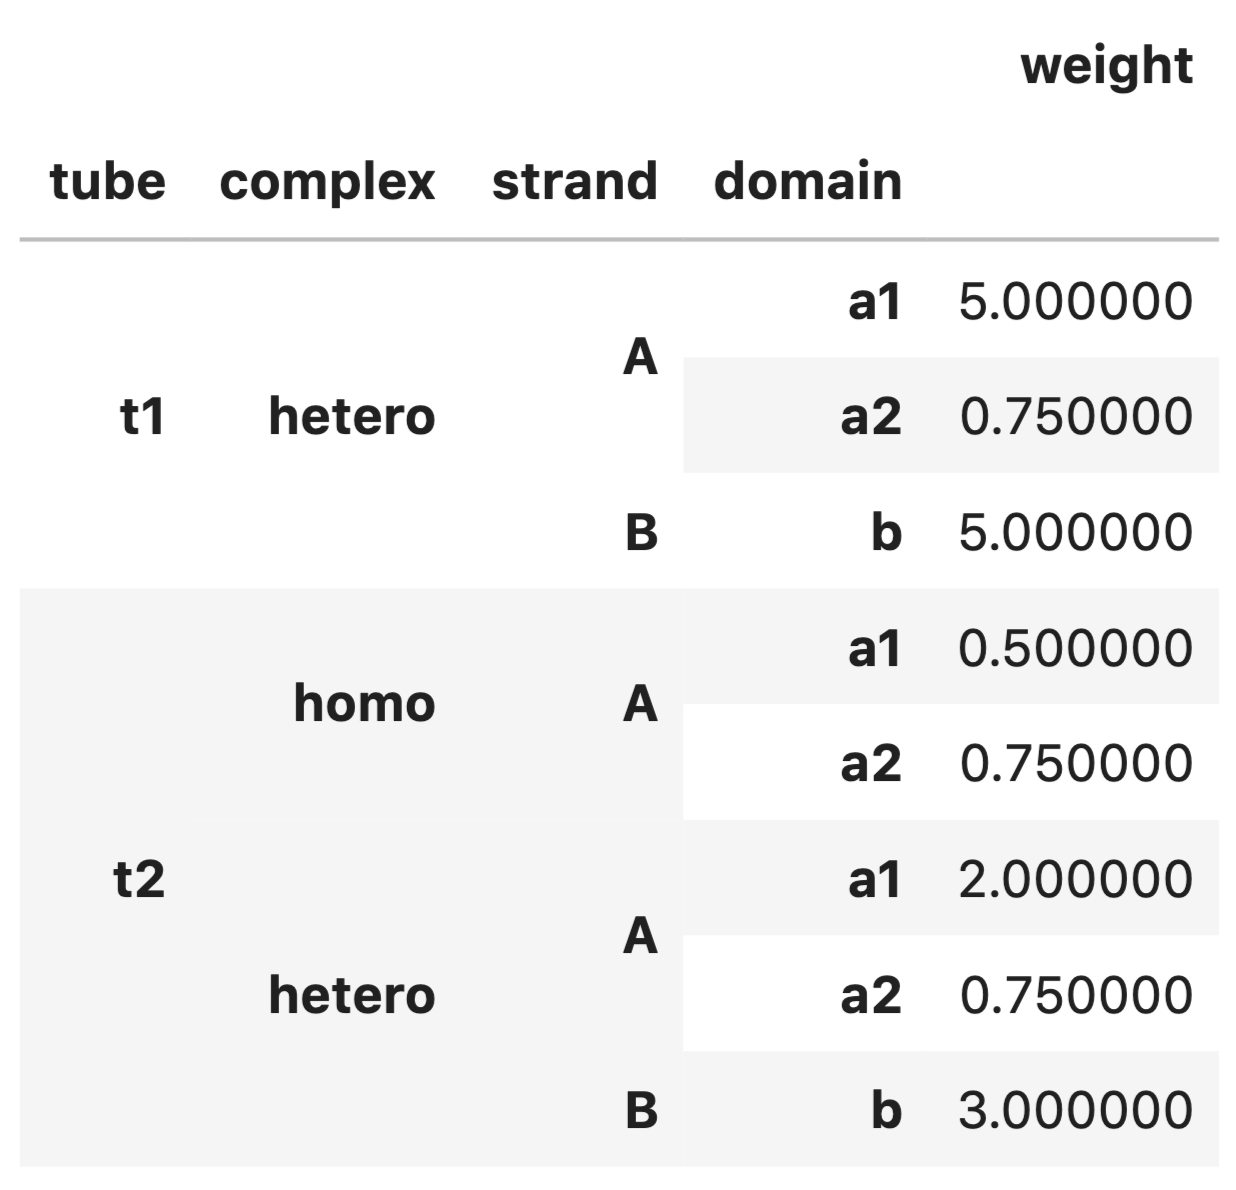
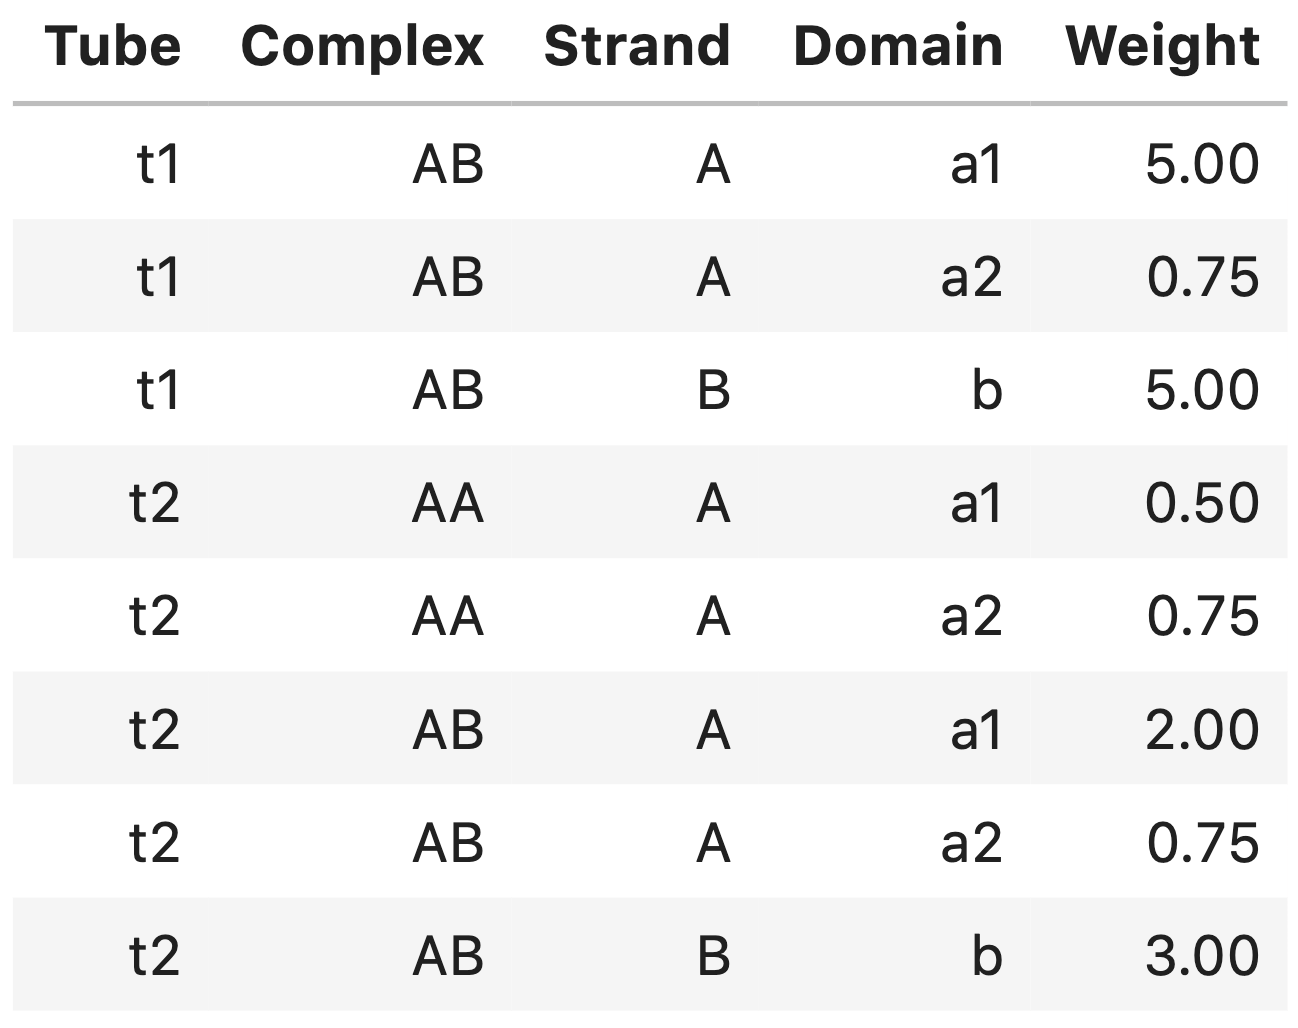
Edit examples so they all work with current syntax

diff --git a/sources/design.md b/sources/design.md
@@ -211,7 +211,7 @@ my_current_results[0]  # display results table for first design trial
 If only final results are of interest, use the `final_results()` method:
 
 ```python
-my_final_results = my_jobs.current_results()
+my_final_results = my_jobs.final_results()
 ```
 
 which returns a list with an entry for each trial that is either a `DesignResult` object (if a final result is available) or `None` (otherwise).
@@ -309,16 +309,18 @@ A `complex_design` object supports the `launch()`, `run()`, and `evaluate()` met
 
 ## Specify hard constraints
 
-[Hard constraints](definitions.md#hard-constraints) for a design job are specified as a list, for example: 
+[Hard constraints](definitions.md#hard-constraints) for a design job are specified as a list, for example:
 
 ```python
 # specify domains
-a = 
-b = 
-c = 
-d = 
-e = Domain('S2', name='e')
-f = Domain('S2', name='f')
+a = Domain('N4', name='a')
+b = Domain('N4', name='b')
+c = Domain('N5', name='c')
+d = Domain('N5', name='d')
+e = Domain('N5', name='e')
+f = Domain('N5', name='f')
+
+A = TargetStrand([a, b, c], name='A')
 
 # source sequence for window constraint
 gfp = 'auggugagcaagggcgaggagcuguucaccgggguggugcccauccuggucgagcuggacggcgacguaaacggccacaaguucagcguguccggcgagggcgagggcgaugccaccuacggcaagcugacccugaaguucaucugcaccaccggcaagcugcccgugcccuggcccacccucgugaccacccugaccuacggcgugcagugcuucagccgcuaccccgaccacaugaagcagcacgacuucuucaaguccgccaugcccgaaggcuacguccaggagcgcaccaucuucuucaaggacgacggcaacuacaag'
@@ -327,20 +329,20 @@ gfp = 'auggugagcaagggcgaggagcuguucaccgggguggugcccauccuggucgagcuggacggcgacguaaacg
 my_hard_constraints = [
     Match([a], [b]),
     Match([a, b, f, f], [d, a, d, a]),
-    Complementarity([a, b, f, a, a, b], [c, d, e], allow_wobble=True),
-    Similarity(c, 'S10', limits=[0.45, 0.55]), # GC content
-    Library([a], catalog = ['CTAC', 'TAAT']),
-    Window([a, ~b], source = gfp),
-    Pattern(['A5', 'C5', 'G5', 'U5'], where=[A, b]),
+    Complementarity([a, b, f, a, a, b], [c, d, e, c, c], wobble_mutations=True),
+    Similarity([c], 'S5', limits=[0.2, 0.8]), # GC content
+    Library([a], catalog=[['CTAC', 'TAAT']]),
+    Window([a, ~b], source=gfp),
+    Pattern(['A5', 'C5', 'G5', 'U5'], where=A),
     Pattern(['A4', 'C4', 'G4', 'U4', 'M6', 'K6', 'W6', 'S6', 'R6', 'Y6']),
     Diversity(word=4, diversity=2),
     Diversity(word=6, diversity=3),
-    Diversity(word=10, diversity=4, where=[a, B])
+    Diversity(word=10, diversity=4, where=[a, b])
 ]
 
 #two ways to add another constraint to the constraint set
-my_hard_constraints += [Complementarity([e],[f], allow_wobble=True)]
-my_hard_constraints.append(Complementarity([e],[f], allow_wobble=True)) 
+my_hard_constraints += [Complementarity([e], [f], wobble_mutations=True)]
+my_hard_constraints.append(Complementarity([e], [f], wobble_mutations=True))
 ```
 
 See below for information about how to specify each type of hard constraint. Note that the specification of a domain (examples above) represents implicit specification of a sequence constraint using [degenerate nucleotide codes](definitions.md#degenerate-nucleotide-codes).
@@ -349,7 +351,7 @@ See below for information about how to specify each type of hard constraint. Not
 
 ### Match
 
-A [match constraint](definitions.md#hard-constraints) forces equal-length concatenations of one or more domains to be identical as follows: 
+A [match constraint](definitions.md#hard-constraints) forces equal-length concatenations of one or more domains to be identical as follows:
 
 ```python
 a = Domain('N10', name='a')
@@ -366,16 +368,16 @@ match2 = Match([a, b], [d, d, e])
 
 ### Complementarity
 
-A [complementarity constraint](definitions.md#hard-constraints) forces a concatenation of one list of domains to be the reverse complement of an equal-length  concatenation of another list of domains: 
+A [complementarity constraint](definitions.md#hard-constraints) forces a concatenation of one list of domains to be the reverse complement of an equal-length  concatenation of another list of domains:
 
 ```python
 comp1 = Complementarity([a, b], [c, d, e])
 ```
 
 !!! Note
-    Nucleotides that are base-paired in the target structure of an on-target complex are automatically assigned to satisfy a complementarity constraint. 
+    Nucleotides that are base-paired in the target structure of an on-target complex are automatically assigned to satisfy a complementarity constraint.
 
-By default, complementary sequences are required to have Watson-Crick base-pairing (A$\cdot$U or C$\cdot$G for RNA, A$\cdot$T or C$\cdot$G for DNA). To permit wobble mutations for RNA (G$\cdot$U) globally throughout a design, use the `wobble_mutations` [job option](design.md#job-options). Alternatively, wobble mutations can be allowed for individual complementarity constraints (keyword `wobble_mutations`, default: `False`): 
+By default, complementary sequences are required to have Watson-Crick base-pairing (A$\cdot$U or C$\cdot$G for RNA, A$\cdot$T or C$\cdot$G for DNA). To permit wobble mutations for RNA (G$\cdot$U) globally throughout a design, use the `wobble_mutations` [job option](design.md#job-options). Alternatively, wobble mutations can be allowed for individual complementarity constraints (keyword `wobble_mutations`, default: `False`):
 
 ```python
 comp2 = Complementarity([a, b], [c, d, e], wobble_mutations=True)
@@ -386,16 +388,16 @@ It is also possible to force base pairs to be wobble pairs:
 ```python
 f = Domain('S2', name='f')
 g = Domain('S2', name='g')
-comp3 = Complementarity([f],[g], wobble_mutations=True)
+comp3 = Complementarity([f], [g], wobble_mutations=True)
 ```
 
 ---
 
 ### Similarity
 
-A [similarity constraint](definitions.md#hard-constraints) forces a concatentation of domains or a single strand to match a reference sequence of the same length to within a specified fractional range. at a number of positions that falls in a specified range. A `Similarity` constraint is specified as: 
+A [similarity constraint](definitions.md#hard-constraints) forces a concatentation of domains or a single strand to match a reference sequence of the same length to within a specified fractional range. at a number of positions that falls in a specified range. A `Similarity` constraint is specified as:
 
-- a list of domains or a strand 
+- a list of domains or a strand
 - a reference sequence of the same length as the concatenated domains or the strand
 - a fractional range, $[l, u]$, where $0 \leq l < u \leq 1$
 
@@ -404,30 +406,30 @@ A [similarity constraint](definitions.md#hard-constraints) forces a concatentati
 ```python
 a = Domain('N10', name='a')
 b = Domain('N20', name='b')
-C = TargetStrand([a b a], name='Strand C')
+C = TargetStrand([a, b, a], name='Strand C')
 
 # similarity constraint for a concatenation of domains
-sim1 = Similarity([a ~a b], 'S5K5', limits=[0.25, 0.75]) 
+sim1 = Similarity([a, ~a, b], 'S5K35', limits=[0.25, 0.75])
 
 # similarity constraint for a strand
-sim2 = Similarity(C, 'S5K5', limits=[0.25, 0.75]) # for a strand
+sim2 = Similarity(C.domains, 'S30K10', limits=[0.25, 0.75]) # for a strand
 
 # use similarity constraint to enforce 45-55% GC content
-sim3 = Similarity([a b], 'S30', limits=[0.45, 0.55])
+sim3 = Similarity([a, b], 'S30', limits=[0.45, 0.55])
 ```
 
 
 !!! Note
-    A similarity constraint can be used to constrain sequence composition (e.g., 45-55% GC content as in the example above). 
+    A similarity constraint can be used to constrain sequence composition (e.g., 45-55% GC content as in the example above).
 
 
 ---
 
 ### Window
 
-A [window constraint](definitions.md#hard-constraints) forces a concatenation of domains to have a sequence that is a subsequence of a source sequence. More generally, a window can be drawn from any of multiple source sequences. A `Window` constraint is specified in two steps: 
+A [window constraint](definitions.md#hard-constraints) forces a concatenation of domains to have a sequence that is a subsequence of a source sequence. More generally, a window can be drawn from any of multiple source sequences. A `Window` constraint is specified in two steps:
 
-- First, define one or more source sequences as strings. 
+- First, define one or more source sequences as strings.
 - Second, specify a list of domains for concatenation and a list of sources from which the window should be selected.
 
 ```python
@@ -451,12 +453,12 @@ window2 = Window([~c, e], [gfp, rfp])
 
 ### Library
 
-A [library constraint](definitions.md#hard-constraints) forces a concatenated list of domains to have sequences drawn from a concatenated list of libraries. Each library contains a set of alternative sequences of equal length. A `Library` constraint is specified in two steps: 
+A [library constraint](definitions.md#hard-constraints) forces a concatenated list of domains to have sequences drawn from a concatenated list of libraries. Each library contains a set of alternative sequences of equal length. A `Library` constraint is specified in two steps:
 
-- First, define one or more libraries of alternative sequences of uniform length. 
-- Second, specify a list of domains for concatentation and a list of libraries for concatenation. 
+- First, define one or more libraries of alternative sequences of uniform length.
+- Second, specify a list of domains for concatentation and a list of libraries for concatenation.
 
-The sum of the length of the domains must equal the sum of the length of the libraries (where we define the length of a library to be the length of any of its elements). 
+The sum of the length of the domains must equal the sum of the length of the libraries (where we define the length of a library to be the length of any of its elements).
 
 ```python
 a = Domain('N6', name='a')
@@ -500,10 +502,10 @@ lib2 = Library([b, c], [aaI, aaM, aaC, aaG])
 
 ### Pattern Prevention
 
-A [pattern prevention constraint](definitions.md#hard-constraints) prevents a list of patterns from appearing globally or in a list of domains and/or strands. A `Pattern` constraint is specified as: 
+A [pattern prevention constraint](definitions.md#hard-constraints) prevents a list of patterns from appearing globally or in a list of domains and/or strands. A `Pattern` constraint is specified as:
 
 - a list of patterns to be prevented
-- optionally a list of domains and/or strands (keyword `where`) where the patterns should be prevented 
+- optionally a list of domains and/or strands (keyword `where`) where the patterns should be prevented
 - if the scope is unspecified (absence of keyword `where`), the constraint is global
 
 ```python
@@ -511,15 +513,17 @@ a = Domain('N12', name='a')
 b = Domain('N12', name='b')
 A = TargetStrand([a, ~a], name='A')
 B = TargetStrand([b, ~b], name='B')
+C = TargetComplex([A, B, A], name='C')
+D = TargetComplex([A, A], name='D')
 
 # pattern prevention for a domain a and domain b
 pattern1 = Pattern(['A4', 'U4'], where=[a, b])
 
 # pattern prevention for strand B
-pattern2 = Pattern(['A4', 'U4'], where=[B])
+pattern2 = Pattern(['A4', 'U4'], where=B)
 
 # preventing the same patterns for strand A and domain b
-pattern3 = Pattern(['A5', 'C5', 'G5', 'U5'], where=[A, b])
+pattern3 = Pattern(['A5', 'C5', 'G5', 'U5'], where=[b])
 
 # global pattern prevention
 pattern4 = Pattern(['A4', 'C4', 'G4', 'U4', 'M6', 'K6', 'W6', 'S6', 'R6', 'Y6'])
@@ -531,8 +535,8 @@ pattern4 = Pattern(['A4', 'C4', 'G4', 'U4', 'M6', 'K6', 'W6', 'S6', 'R6', 'Y6'])
 
 A [diversity constraint](definitions.md#hard-constraints) forces every window of a specified length to contain a specified degree of sequence diversity. A `Diversity` constraint is specified as:
 
-* the window length in nucleotides 
-* the minimum number of nucleotide types that must appear in every window 
+* the window length in nucleotides
+* the minimum number of nucleotide types that must appear in every window
 * optionally a list of domains and/or strands (keyword `where`) where the diversity should be imposed
 * if the scope is unspecified (absence of keyword `where`), the constraint is global
 
@@ -540,11 +544,11 @@ A [diversity constraint](definitions.md#hard-constraints) forces every window of
 ```python
 div1 = Diversity(4, 2) # global constraint
 div2 = Diversity(6, 3) # global constraint
-div3 = Diversity(10, 4, where=[a, B]) # local constraint
+div3 = Diversity(10, 4, where=[a, b]) # local constraint
 ```
 
 !!! Note
-    A diversity constraint that forces every window of length 4 to contain at least 2 nucleotide types is equivalent to a pattern prevention contraint that prevents patterns: AAAA, CCCC, GGGG, UUUU. Likewise, a diversity constraint that forces every window of length 6 to contain at least 3 nucleotide types is equivalent to a pattern prevention constraint that prevents: MMMMMM, KKKKKK, WWWWWW, SSSSSS, RRRRRR, YYYYYY. A constraint satisfaction problem is solved to identify a valid candidate mutation, and the solutino process is more efficient for diversity than for pattern prevention.  As a result, we recommend diversity constraints over pattern prevention constraints when applicable. The global constraints `div1` and `div2` reproduce the global pattern prevention constraint `pattern4`. 
+    A diversity constraint that forces every window of length 4 to contain at least 2 nucleotide types is equivalent to a pattern prevention contraint that prevents patterns: AAAA, CCCC, GGGG, UUUU. Likewise, a diversity constraint that forces every window of length 6 to contain at least 3 nucleotide types is equivalent to a pattern prevention constraint that prevents: MMMMMM, KKKKKK, WWWWWW, SSSSSS, RRRRRR, YYYYYY. A constraint satisfaction problem is solved to identify a valid candidate mutation, and the solutino process is more efficient for diversity than for pattern prevention.  As a result, we recommend diversity constraints over pattern prevention constraints when applicable. The global constraints `div1` and `div2` reproduce the global pattern prevention constraint `pattern4`.
 
 ---
 
@@ -554,9 +558,9 @@ div3 = Diversity(10, 4, where=[a, B]) # local constraint
 # define soft for soft constraints
 soft = [
     Pattern(['A4', 'U4'], where=a),
-    Pattern(['A5', 'C5', 'G5', 'U5'], where=[A, b]), # default weight 1
+    Pattern(['A5', 'C5', 'G5', 'U5'], where=A), # default weight 1
     Pattern(['A4', 'C4', 'G4', 'U4', 'M6', 'K6', 'W6', 'S6', 'R6', 'Y6'], weight=0.5),
-    Similarity(b, 'S12', limits=[0.45, 0.55], weight=0.25),
+    Similarity([b], 'S12', limits=[0.45, 0.55], weight=0.25),
     SSM([C, D], word=4, weight=0.15),
     EnergyDiff([a, b]), # min energy diff to median
     EnergyDiff([a, b], energy_ref=-17, weight=0.5) # energy diff to reference
@@ -589,7 +593,7 @@ a = Domain('N10', name='a')
 b = Domain('N20', name='b')
 
 # explicitly specify weight
-sim = Similarity(b, 'S20', limits=[0.45, 0.55], weight=0.25)
+sim = Similarity([b], 'S20', limits=[0.45, 0.55], weight=0.25)
 ```
 
 ---
@@ -686,16 +690,15 @@ print(weights)
 Output:
 
 ```
-                            Weight
-Tube Complex Strand Domain
-t1   hetero  A      a1        5.00
-                    a2        0.75
-             B      b         5.00
-t2   homo    A      a1        0.50
-                    a2        0.75
-     hetero  A      a1        2.00
-                    a2        0.75
-             B      b         3.00
+Tube Complex Strand Domain  Weight
+  t1      AB      A     a1    5.00
+  t1      AB      A     a2    0.75
+  t1      AB      B      b    5.00
+  t2      AA      A     a1    0.50
+  t2      AA      A     a2    0.75
+  t2      AB      A     a1    2.00
+  t2      AB      A     a2    0.75
+  t2      AB      B      b    3.00
 ```
 
 
@@ -828,7 +831,7 @@ C = TargetComplex([A, B], '(20+)20', name='C')
 tube = TargetTube({C: 1e-6}, max_size=2, name='tube1')
 
 my_design = tube_design([tube], model=Model())
-result = my_design.run()
+result = my_design.run(trials=1)[0]
 ```
 
 ---
@@ -972,7 +975,7 @@ When "calling" the design to start the optimization process, two additional argu
 ```python
 from nupack.design import TimeInterval, WriteToFileCheckpoint
 
-result = my_design.run(checkpoint_condition=TimeInterval(1), checkpoint_handler=WriteToFileCheckpoint("design-checkpoint"))
+result = my_design.run(trials=1, checkpoint_condition=[TimeInterval(1)], checkpoint_handler=[WriteToFileCheckpoint("design-checkpoint")])
 ```
 
 --- -->
